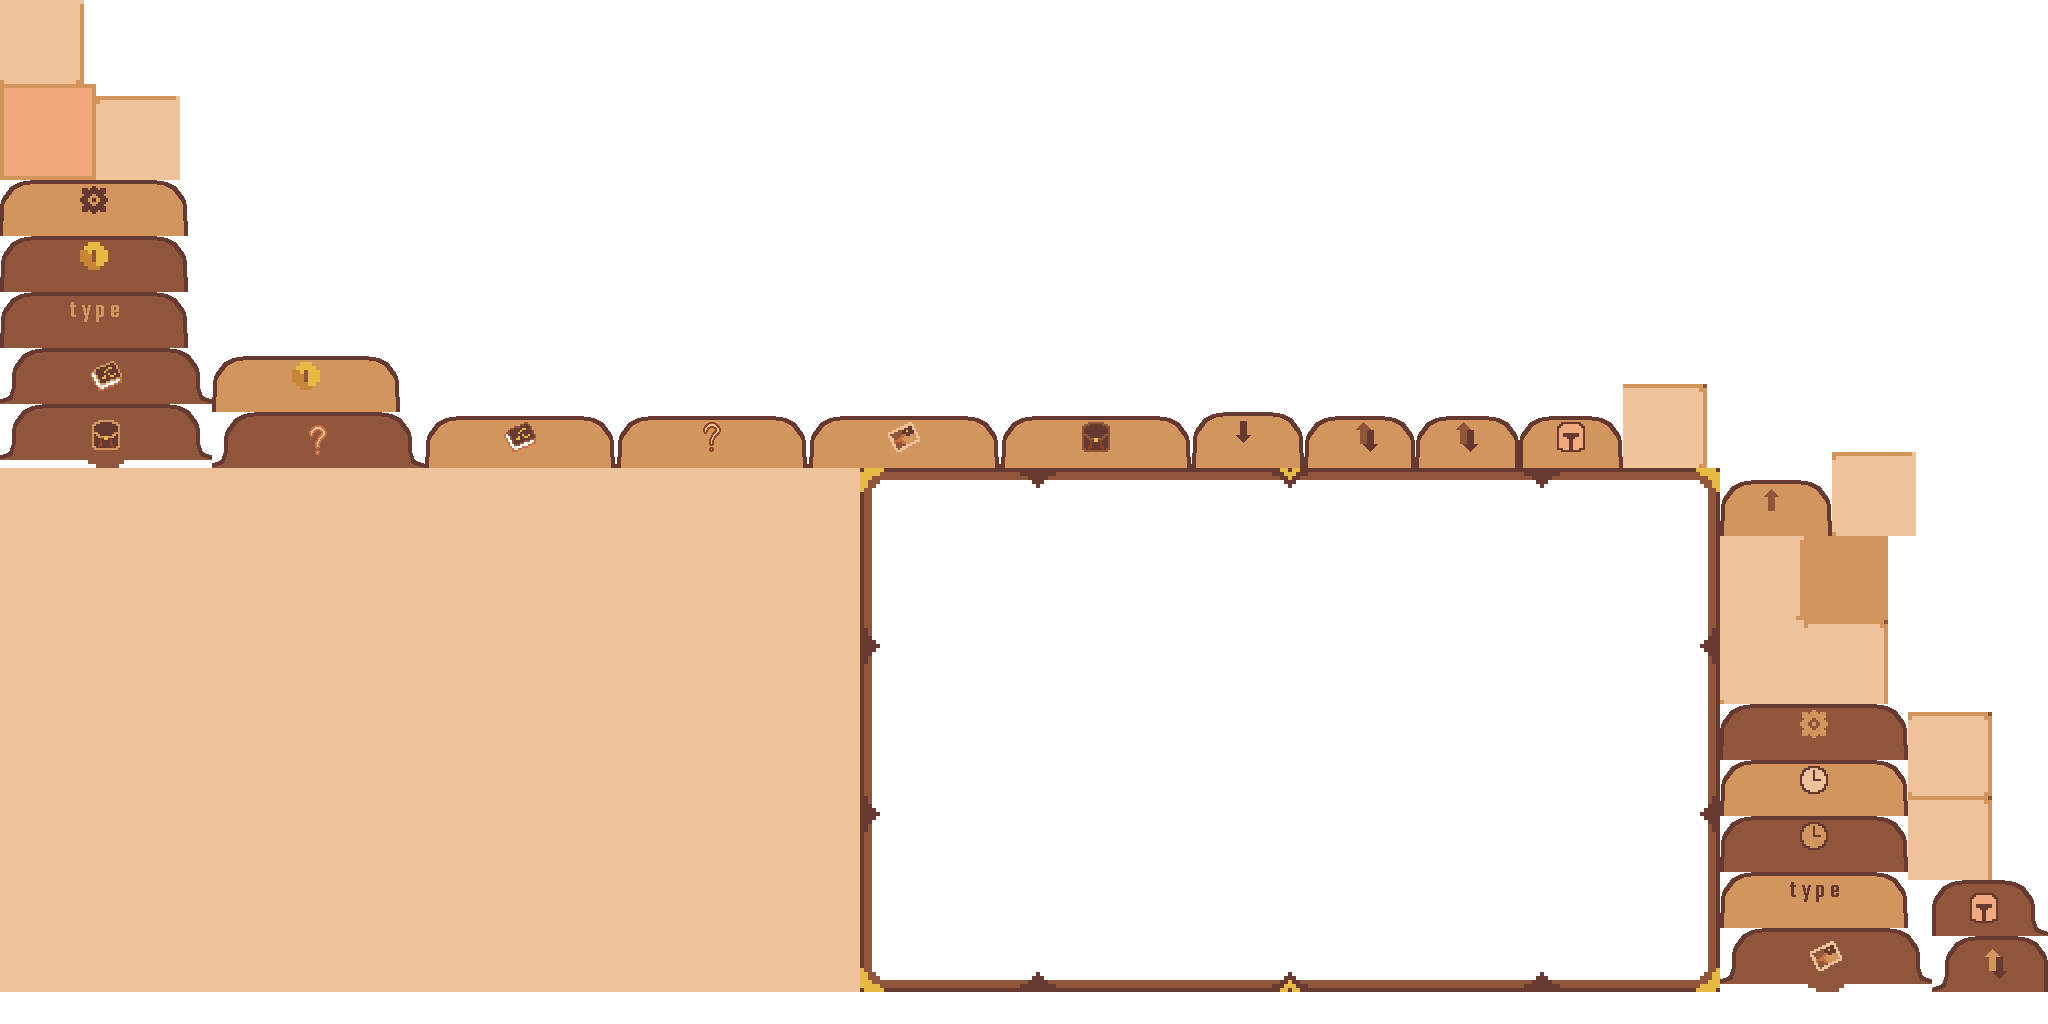
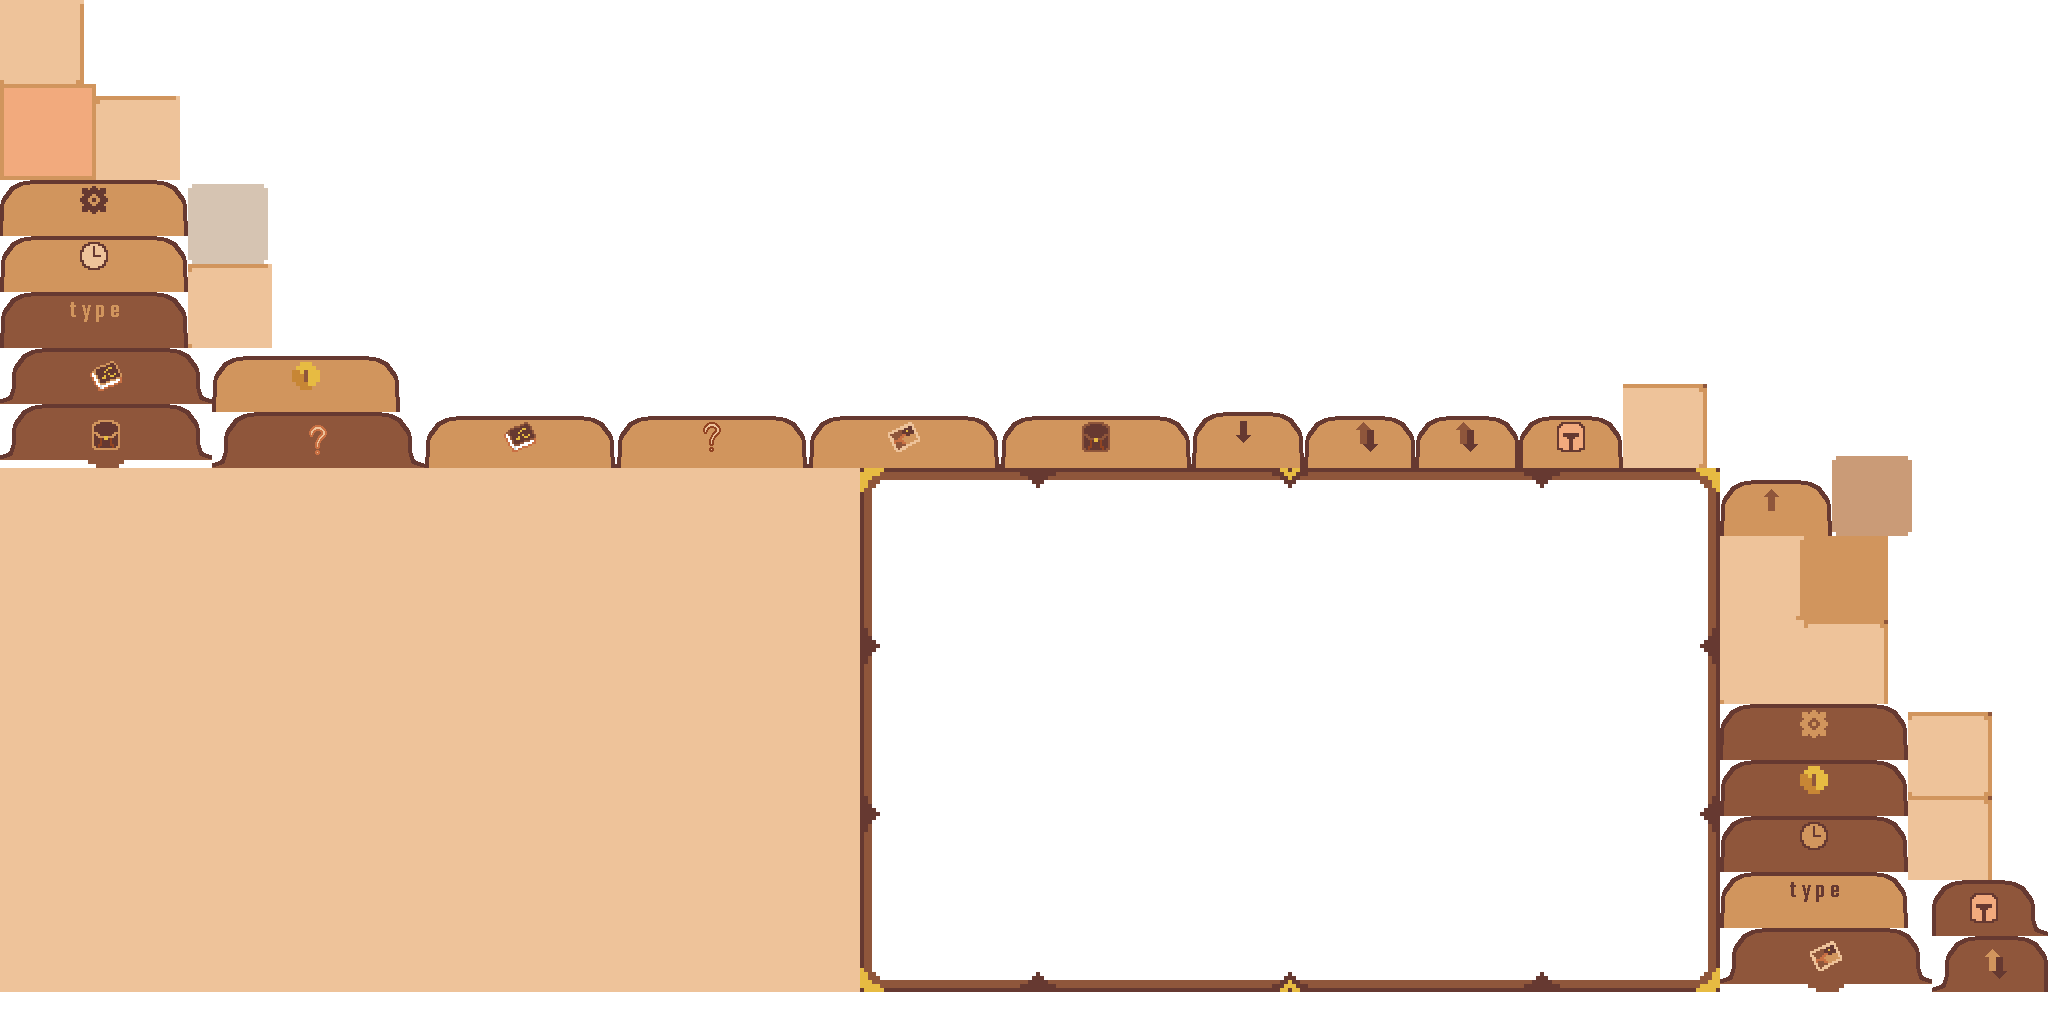
Available skills are now displayed in the UI

Changed region(s): [[0.0, 0.1562, 0.1562, 0.3438], [0.8438, 0.7188, 0.9375, 0.8125], [0.875, 0.4375, 0.9375, 0.5312]]

diff --git a/core/src/com/neutrino/UiStage.kt b/core/src/com/neutrino/UiStage.kt
@@ -28,8 +28,11 @@ import com.neutrino.game.domain.model.items.items.Gold
 import com.neutrino.game.domain.model.items.utility.EqActor
 import com.neutrino.game.domain.model.items.utility.EqElement
 import com.neutrino.game.domain.model.items.utility.Inventory
+import com.neutrino.game.domain.model.systems.skills.Skill
+import com.neutrino.game.domain.model.systems.skills.SkillActor
 import com.neutrino.game.graphics.utility.ItemContextPopup
 import com.neutrino.game.graphics.utility.ItemDetailsPopup
+import com.neutrino.game.graphics.utility.SkillContextPopup
 import ktx.scene2d.container
 import ktx.scene2d.scene2d
 import ktx.scene2d.table
@@ -49,8 +52,13 @@ class UiStage(viewport: Viewport, private val hudStage: HudStage): Stage(viewpor
 
     var showInventory: Boolean = true
 
+    /**
+     * Skill used from UI
+     */
+    var usedSkill: Skill? = null
+
     // UI elements
-    private val uiAtlas = TextureAtlas("UI/ui.atlas")
+    private val uiAtlas = Constants.DefaultUITexture
     private val uiElements: Map<String, TextureAtlas.AtlasRegion> = mapOf(
         "BottomBar" to uiAtlas.findRegion("BottomBar"),
         "InventoryBorder" to uiAtlas.findRegion("InventoryBorder"),
@@ -986,7 +994,7 @@ class UiStage(viewport: Viewport, private val hudStage: HudStage): Stage(viewpor
         skills.name = "skills"
         skills.addActor(Image(uiElements["Background"]))
 
-        var rows = Player.skills.size / 10 + if (Player.skills.size % 10 != 0) 1 else 0
+        var rows = Player.skillList.size / 10 + if (Player.skillList.size % 10 != 0) 1 else 0
         rows = if (rows < 6) 6 else rows
 
         val table = scene2d.table {
@@ -1023,6 +1031,18 @@ class UiStage(viewport: Viewport, private val hudStage: HudStage): Stage(viewpor
         skills.width = border.width
         skills.height = border.height
         skills.isVisible = false
+
+        refreshSkills()
+    }
+
+
+    fun refreshSkills() {
+        (skills.findActor<ScrollPane>("skillsPane").actor as Table).children.forEach {
+            (it as Container<*>).actor = null
+            val cellNumber = it.name.toInt()
+            if (cellNumber < Player.skillList.size)
+                it.actor = SkillActor(Player.skillList[cellNumber])
+        }
     }
 
 
@@ -1180,6 +1200,12 @@ class UiStage(viewport: Viewport, private val hudStage: HudStage): Stage(viewpor
                         timeClicked = TimeUtils.millis()
                 }
             }
+            skills -> {
+                val coord: Vector2 = screenToStageCoordinates(
+                    Vector2(screenX.toFloat(), screenY.toFloat())
+                )
+                clickedItem = getSkillCell(coord.x, coord.y)
+            }
         }
 
         return super.touchDown(screenX, screenY, pointer, button)
@@ -1321,6 +1347,33 @@ class UiStage(viewport: Viewport, private val hudStage: HudStage): Stage(viewpor
                         }
                     }
                 }
+            }
+            skills -> {
+                if (button == Input.Buttons.RIGHT && clickedItem == null) {
+                    if (contextPopup != null) {
+                        this.actors.removeValue(contextPopup, true)
+                        contextPopup = null
+                    }
+                    else {
+                        clickedItem = getSkillCell(coord.x, coord.y)
+                        if (clickedItem != null && (clickedItem as Container<*>).actor != null) {
+                            val skill = ((clickedItem as Container<*>).actor as SkillActor).skill
+                            contextPopup = SkillContextPopup(skill, coord.x, coord.y) {
+                                usedSkill = skill
+                                showInventory = false
+                                clickedItem = null
+                                nullifyAllValues()
+                            }
+                            if (contextPopup != null) {
+                                if (detailsPopup != null)
+                                    this.actors.removeValue(detailsPopup, true)
+                                addActor(contextPopup)
+                                contextPopup?.setPosition(coord.x, coord.y)
+                            }
+                        }
+                    }
+                }
+                clickedItem = null
             }
         }
 
@@ -1504,6 +1557,23 @@ class UiStage(viewport: Viewport, private val hudStage: HudStage): Stage(viewpor
         }
         else
             return null
+    }
+
+    private fun getSkillCell(x: Float, y: Float): Container<*>? {
+        val coord: Vector2 = skills.stageToLocalCoordinates(
+            Vector2(x, y)
+        )
+
+        var clickedChild = skills.hit(coord.x, coord.y, false)
+
+        // space between cells was hit
+        if (clickedChild is Table)
+            return null
+
+        if (clickedChild !is Container<*>)
+            return null
+
+        return clickedChild
     }
 
     private fun getInventoryCell(x: Float, y: Float, clickedEq: ScrollPane): Container<*>? {

diff --git a/core/src/com/neutrino/game/graphics/utility/SkillContextPopup.kt b/core/src/com/neutrino/game/graphics/utility/SkillContextPopup.kt
@@ -1,0 +1,51 @@
+package com.neutrino.game.graphics.utility
+
+import com.badlogic.gdx.Input
+import com.badlogic.gdx.math.Vector2
+import com.badlogic.gdx.scenes.scene2d.InputEvent
+import com.badlogic.gdx.scenes.scene2d.actions.Actions
+import com.badlogic.gdx.scenes.scene2d.ui.Table
+import com.badlogic.gdx.scenes.scene2d.utils.ClickListener
+import com.github.tommyettinger.textra.KnownFonts
+import com.github.tommyettinger.textra.TextraButton
+import com.github.tommyettinger.textra.TextraLabel
+import com.neutrino.game.domain.model.characters.Player
+import com.neutrino.game.domain.model.systems.event.types.CooldownType
+import com.neutrino.game.domain.model.systems.skills.Skill
+import ktx.scene2d.Scene2DSkin
+
+class SkillContextPopup(skill: Skill, x: Float, y: Float, val customUseMethod: () -> Unit? = {}): Table() {
+    init {
+        val useButton = TextraButton("[%150][@Cozette]Use", Scene2DSkin.defaultSkin)
+        useButton.addListener(object: ClickListener() {
+            override fun clicked(event: InputEvent?, x: Float, y: Float) {
+                if (event?.button != Input.Buttons.LEFT)
+                    return
+                super.clicked(event, x, y)
+                Player.characterEventArray.forEach { println(it) }
+                if (Player.hasCooldown(CooldownType.SKILL(skill))) {
+                    val cooldownLabel = TextraLabel("[@Cozette][%600][*]Skill is on cooldown", KnownFonts.getStandardFamily())
+                    cooldownLabel.name = "cooldown"
+                    parent.addActor(cooldownLabel)
+                    val coords = localToParentCoordinates(Vector2(x, y))
+                    cooldownLabel.setPosition(coords.x, coords.y + 8f)
+                    cooldownLabel.addAction(Actions.moveBy(0f, 36f, 1f))
+                    cooldownLabel.addAction(
+                        Actions.sequence(
+                            Actions.fadeOut(1.25f),
+                            Actions.removeActor()))
+                    return
+                }
+                customUseMethod.invoke()
+            }
+        })
+        add(useButton).prefWidth(90f).prefHeight(40f)
+
+        pack()
+
+        val bgColor: BackgroundColor = BackgroundColor("UI/whiteColorTexture.png", x, y, width, height)
+        bgColor.setColor(0, 0, 0, 160)
+        background = bgColor
+        name = "skillContextPopup"
+    }
+}

diff --git a/core/src/com/neutrino/game/domain/model/systems/skills/SkillActor.kt b/core/src/com/neutrino/game/domain/model/systems/skills/SkillActor.kt
@@ -1,0 +1,60 @@
+package com.neutrino.game.domain.model.systems.skills
+
+import com.badlogic.gdx.graphics.g2d.Batch
+import com.badlogic.gdx.graphics.g2d.TextureAtlas
+import com.badlogic.gdx.scenes.scene2d.Group
+import com.neutrino.game.Constants
+import com.neutrino.game.domain.model.entities.utility.TextureHaver
+
+class SkillActor(val skill: Skill): Group(), TextureHaver {
+    // needed for resize
+    private val ogWidth = 80f
+    private val ogHeight = 80f
+    private var actorWidth: Float = ogWidth
+    private var actorHeight: Float = ogHeight
+
+    override val textureNames: List<String> = listOf(skill.textureName)
+    override var texture: TextureAtlas.AtlasRegion = setTexture()
+    override var mirrored: Boolean = false
+
+    val backgroundTexture = Constants.DefaultUITexture.findRegion("skillBackground")
+
+    override fun getTexture(name: String): TextureAtlas.AtlasRegion {
+        try {
+            return Constants.DefaultIconTexture.findRegion(name)
+        } catch (e: NullPointerException) {
+            println("TextureName:\t$name\tdoesn't exist")
+            // Default texture
+            return Constants.DefaultEntityTexture.findRegion(textureNames[0])
+        }
+    }
+
+    init {
+        name = skill.name
+    }
+
+    override fun draw(batch: Batch?, parentAlpha: Float) {
+        // required for fading
+        val color: com.badlogic.gdx.graphics.Color = color
+        batch?.setColor(color.r, color.g, color.b, color.a * parentAlpha)
+
+        batch?.draw(backgroundTexture, this.x, this.y , actorWidth, actorHeight)
+        batch?.draw(texture, this.x + 8f, this.y + 8f, actorWidth * 0.8f, actorHeight * 0.8f)
+        super.draw(batch, parentAlpha)
+
+        // required for fading
+        color.a = 1f
+        batch?.color = color
+    }
+
+    override fun setScale(scaleX: Float, scaleY: Float) {
+        super.setScale(scaleX, scaleY)
+        actorWidth = ogWidth * scaleX
+        actorHeight = ogHeight * scaleY
+    }
+
+    fun setActive() {
+        TODO()
+    }
+
+}

diff --git a/core/src/com/neutrino/game/domain/model/characters/Player.kt b/core/src/com/neutrino/game/domain/model/characters/Player.kt
@@ -13,10 +13,13 @@ import com.neutrino.game.domain.model.items.Equipment
 import com.neutrino.game.domain.model.items.Item
 import com.neutrino.game.domain.model.items.utility.EqElement
 import com.neutrino.game.domain.model.items.utility.Inventory
+import com.neutrino.game.domain.model.systems.skills.Skill
+import com.neutrino.game.domain.model.systems.skills.SkillBleed
+import com.neutrino.game.domain.model.systems.skills.SkillCripplingSpin
 import com.neutrino.game.domain.model.turn.Turn
 import com.neutrino.game.lessThanDelta
 
-object Player : Character(0, 0, 0.0), HasInventory, HasEquipment {
+object Player : Character(0, 0, 0.0), HasInventory, HasEquipment, HasSkills {
     override var hp: Float = 0f
         set(value) {
             val previous = hp
@@ -143,10 +146,10 @@ object Player : Character(0, 0, 0.0), HasInventory, HasEquipment {
         set(value) {field = value
         GlobalData.registerData(GlobalDataType.PLAYERSTAT, "level")}
 
-    val skills = ArrayList<Int>()
+    override val skillList: ArrayList<Skill> = ArrayList(5)
 
     /** Determines the maximum number of concurrently used skills that do not use mana */
-    var maxSkills: Int = 3
+    override var maxSkills: Int = 3
 
     override var viewDistance: Int = 20
 
@@ -169,6 +172,9 @@ object Player : Character(0, 0, 0.0), HasInventory, HasEquipment {
         val infoGroup = findActor<Group>("infoGroup")
         infoGroup.isVisible = false
         inventory.size = 30
+
+        skillList.add(SkillBleed(this))
+        skillList.add(SkillCripplingSpin(this))
     }
 
     override val description: String

diff --git a/core/src/com/neutrino/game/domain/model/systems/skills/SkillCripplingSpin.kt b/core/src/com/neutrino/game/domain/model/systems/skills/SkillCripplingSpin.kt
@@ -15,10 +15,11 @@ import com.neutrino.game.domain.model.systems.event.wrappers.TimedEvent
 import com.neutrino.game.domain.model.turn.Turn
 import squidpony.squidmath.Coord
 
-class SkillSlowDown(override val character: Character): Skill.ActiveSkillTile {
-    override val name: String = "Slowing spin"
+class SkillCripplingSpin(override val character: Character): Skill.ActiveSkillTile {
+    override val name: String = "Crippling spin"
     override val description: String = "Spinning attack which slowes down nearby enemies"
     override val requirement: RequirementPrintable = RequirementPrintable().add("Strength: 2") { character.strength >= 2 }
+    override val textureName: String = "skillCripple"
 
     override val cooldownLength: Double = 20.0
     override val cooldownType: CooldownType = CooldownType.SKILL(this)

diff --git a/core/src/com/neutrino/game/domain/model/characters/Character.kt b/core/src/com/neutrino/game/domain/model/characters/Character.kt
@@ -153,7 +153,7 @@ abstract class Character(
         return characterEventArray.find {
             it.event is EventCooldown && it.event.cooldownType == cooldownType &&
             when (it.event.cooldownType) {
-                is CooldownType.SKILL -> (it.event.cooldownType as CooldownType.SKILL).skill == (cooldownType as CooldownType.SKILL).skill
+                is CooldownType.SKILL -> (it.event.cooldownType as CooldownType.SKILL).skill::class == (cooldownType as CooldownType.SKILL).skill::class
                 is CooldownType.ITEM -> (it.event.cooldownType as CooldownType.ITEM).itemName == (cooldownType as CooldownType.ITEM).itemName
                 else -> true
             }

diff --git a/core/src/com/neutrino/game/Constants.kt b/core/src/com/neutrino/game/Constants.kt
@@ -54,6 +54,7 @@ object Constants {
     val DefaultEntityTexture: TextureAtlas = TextureAtlas("textures/entities.atlas")
     val DefaultProjectileTexture: TextureAtlas = TextureAtlas("textures/projectiles.atlas")
     val DefaultIconTexture: TextureAtlas = TextureAtlas("textures/icons.atlas")
+    val DefaultUITexture: TextureAtlas = TextureAtlas("UI/ui.atlas")
     val WhitePixel: Texture = Texture("whitePixel.png")
     val TransparentPixel: Texture = Texture("transparentPixel.png")
     val EntityPixelData = PixelData(DefaultEntityTexture)

diff --git a/core/src/com/neutrino/game/domain/model/systems/skills/SkillBleed.kt b/core/src/com/neutrino/game/domain/model/systems/skills/SkillBleed.kt
@@ -16,6 +16,7 @@ class SkillBleed(override val character: Character): Skill.ActiveSkillCharacter 
     override val name: String = "Bleed"
     override val description: String = "Physical attack that induces bleeding."
     override val requirement: RequirementPrintable = RequirementPrintable().add("Dexterity: 2") { character.dexterity >= 2 }
+    override val textureName: String = "skillBleed"
 
     override val cooldownLength: Double = 20.0
     override val cooldownType: CooldownType = CooldownType.SKILL(this)

diff --git a/core/src/com/neutrino/GameScreen.kt b/core/src/com/neutrino/GameScreen.kt
@@ -206,6 +206,11 @@ class GameScreen: KtxScreen {
                 hudStage.refreshHotBar()
             }
 
+            val usedSkill = uiStage.usedSkill
+            if (usedSkill != null) {
+                uiStage.usedSkill = null
+            }
+
             // interact with an entity
             if (Player.ai.action is Action.NOTHING && !Player.hasActions() && Player.ai.entityTargetCoords != null) {
                 val entityCoords = Player.ai.entityTargetCoords!!

diff --git a/core/src/com/neutrino/game/domain/model/characters/utility/HasSkills.kt b/core/src/com/neutrino/game/domain/model/characters/utility/HasSkills.kt
@@ -1,0 +1,9 @@
+package com.neutrino.game.domain.model.characters.utility
+
+import com.neutrino.game.domain.model.systems.skills.Skill
+
+interface HasSkills {
+    val skillList: ArrayList<Skill>
+    /** Determines the maximum number of concurrently used skills that do not use mana */
+    var maxSkills: Int
+}

diff --git a/core/src/com/neutrino/game/domain/model/systems/skills/Skill.kt b/core/src/com/neutrino/game/domain/model/systems/skills/Skill.kt
@@ -17,6 +17,7 @@ sealed interface Skill {
     val description: String
     val requirement: RequirementPrintable
     val printableData: List<Pair<String, Any>>
+    val textureName: String
 
     interface ActiveSkillCharacter: Skill, CausesCooldown, HasRange {
         fun use(target: Character)
